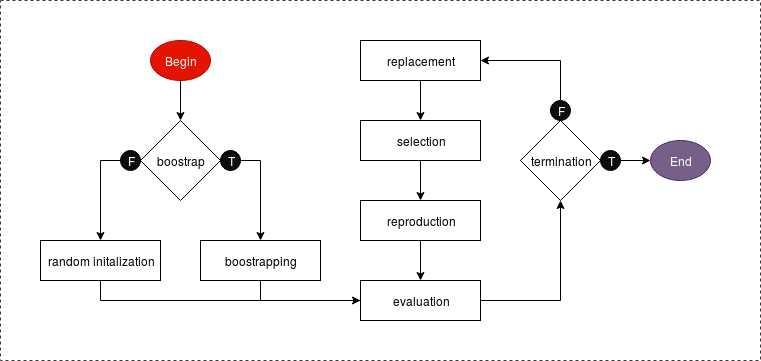
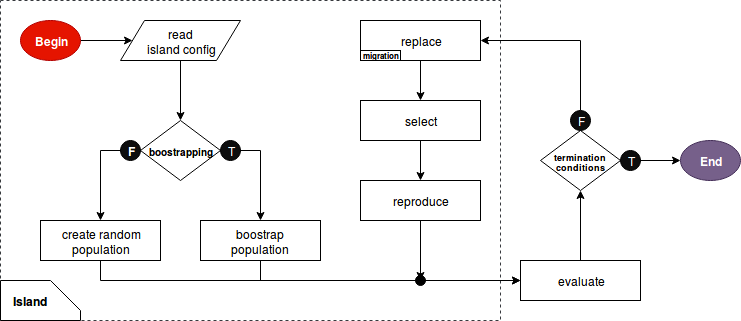
code refactoring + docs update

diff --git a/src/Island.py b/src/Island.py
@@ -33,28 +33,21 @@ class Island(object):
         if not migration_config and not reproduction_config and not replacement_config and not selection_config:
             print('[config error] migration, reproduction, replacement or selection config missing or incomplete.')
 
-        self.reproduction_policy    = ReproductionPolicy(self.population_size, reproduction_config, chromosome_length, self.genotype_letters)
         self.selection_policy       = SelectionPolicy(selection_config, reproduction_config)
-        self.replacement_policy     = ReplacementPolicy(replacement_config, migration_config, tmp_dir, name)
+        self.replacement_policy     = ReplacementPolicy(replacement_config, migration_config, tmp_dir,
+                                                        name, self.population_size)
+        self.reproduction_policy    = ReproductionPolicy(self.population_size, reproduction_config,
+                                                         chromosome_length, self.genotype_letters)
 
         # More variables
         self.generation     = 0
         self.individuals    = self.initiate_individuals()
         self.island_name    = name
         self.processes      = []
-        self.open_processes()
 
     def initiate_individuals(self):
         return [[0, [self.genotype_letters[randint(0, len(self.genotype_letters) - 1)] for _ in range(self.chromosome_length)], False]
                 for _ in range(self.population_size)]
-
-    def open_processes(self):
-        for index, individual in enumerate(self.individuals):
-            if individual[2]: # dont evaluate elites/previously evaluated
-                continue
-            genome = ''.join(str(gene) for gene in individual[1])
-            self.processes.append(subprocess.Popen(["python3", self.evaluation_function_path, genome, str(index)],
-                                                   stdout=subprocess.PIPE))
 
     def sort_individuals(self):
         tmp_individuals = self.individuals
@@ -70,10 +63,12 @@ class Island(object):
             tmp_individuals.remove(tmp_individuals[best_individual])
 
     def evolve(self):
-        new_generation = self.replacement_policy.replace(self.individuals)
-        for _ in range(len(new_generation), self.population_size):
-            parents = self.selection_policy.select_parents(self.individuals)
-            new_generation.append(self.reproduction_policy.reproduce(parents))
-        self.individuals = new_generation
+        # Replacement
+        from_old_generation, num_of_children = self.replacement_policy.replace(self.individuals)
+        # Selection
+        parents = self.selection_policy.select_parents(self.individuals)
+        # Reproduction
+        new_generation = [self.reproduction_policy.reproduce(parents) for _ in range(num_of_children)]
+        # New generation
+        self.individuals = new_generation + from_old_generation
         self.generation += 1
-#

diff --git a/src/Experiment.py b/src/Experiment.py
@@ -3,7 +3,7 @@ import sys
 import time
 import tempfile
 from src.Island import Island
-from src.utilities import decode_stdout, get_date_in_string, remove_tmp, kill_all_processes
+from src.utilities import decode_stdout, get_date_in_string, remove_tmp, kill_all_processes, open_processes
 
 
 class Experiment():
@@ -20,6 +20,8 @@ class Experiment():
 		# Islands settings
 		self.island_configs = []
 		self.islands        = self.initialize_islands(experiment_xml_config, evaluators_xml_config)
+		for island in self.islands:
+			open_processes(island)
 
 		# Logs
 		self.log = self.initialize_log()
@@ -62,24 +64,36 @@ class Experiment():
 				print(individual)
 
 	def run(self):
-			for id, island in enumerate(self.islands):
-				if len(island.processes) > 0: # Collect stdout from unfinished processes if they exists
-					for process in island.processes:
-						if process.poll():
-							index, fitness = decode_stdout(process.communicate()[0])
-							island.individuals[int(index)][0] = int(fitness)
-							island.individuals[int(index)][2] = True
-							island.processes.remove(process)
+			for island in self.islands:
+				if len(island.processes) > 0:
+					self.collect_fitness()
 				else:
-					island.sort_individuals()
-					island.replacement_policy.migration_policy.migrate_out(island.individuals[0])
-					self.update_log(island)
+					self.organize_island(island)
 					if self.termination_check(island):
-						for island in self.islands:
-							kill_all_processes(island.processes)
-							remove_tmp(island.replacement_policy.migration_policy.migration_file)
-						os.removedirs(self.tmp_dir)
-						sys.exit()
+						self.quit_experiment()
 					else:
-						island.evolve()
-						island.open_processes()
+						self.next_generation()
+
+	def organize_island(self, island):
+		island.sort_individuals()
+		self.update_log(island)
+
+	def next_generation(self, island):
+		island.replacement_policy.migration_policy.migrate_out(island.individuals[0])
+		island.evolve()
+		open_processes(island)
+
+	def collect_fitness(self, island):
+		for process in island.processes:
+			if process.poll():
+				index, fitness = decode_stdout(process.communicate()[0])
+				island.individuals[int(index)][0] = int(fitness)
+				island.individuals[int(index)][2] = True
+				island.processes.remove(process)
+
+	def quit_experiment(self):
+		for island in self.islands:
+			kill_all_processes(island.processes)
+			remove_tmp(island.replacement_policy.migration_policy.migration_file)
+		os.removedirs(self.tmp_dir)
+		sys.exit()

diff --git a/src/ReplacementPolicy.py b/src/ReplacementPolicy.py
@@ -2,8 +2,9 @@ from src.MigrationPolicy import MigrationPolicy
 
 
 class ReplacementPolicy(object):
-	def __init__(self, replacement_config, migration_config, tmp_dir, name):
+	def __init__(self, replacement_config, migration_config, tmp_dir, name, population_size):
 		self.policy = replacement_config['policy']
+		self.population_size = population_size
 		self.migration_policy = MigrationPolicy(tmp_dir, name, migration_config)
 		if self.policy == 'elitism':
 			self.num_of_elites = int(replacement_config['num_of_elites'])
@@ -14,6 +15,8 @@ class ReplacementPolicy(object):
 		if self.policy == 'elitism':
 			status, immigrant = self.migration_policy.migrate_in()
 			if status:
-				return [individuals[index] for index in range(self.num_of_elites - 1)] + [immigrant]
+				from_old_generation = [individuals[index] for index in range(self.num_of_elites - 1)] + [immigrant]
 			else:
-				return [individuals[index] for index in range(self.num_of_elites)]
+				from_old_generation = [individuals[index] for index in range(self.num_of_elites)]
+			num_of_children = self.population_size - len(from_old_generation)
+			return from_old_generation, num_of_children

diff --git a/src/utilities.py b/src/utilities.py
@@ -1,5 +1,6 @@
 from time import localtime
 import os
+import subprocess
 
 
 def accumulate_vector(vector):
@@ -33,6 +34,15 @@ def decode_stdout(stdout):
 def remove_tmp(path):
     if os.path.exists(path):
         os.remove(path)
+
+
+def open_processes(island):
+    for index, individual in enumerate(island.individuals):
+        if individual[2]:  # dont evaluate elites/previously evaluated
+            continue
+        genome = ''.join(str(gene) for gene in individual[1])
+        island.processes.append(subprocess.Popen(["python3", island.evaluation_function_path, genome, str(index)],
+                                                 stdout=subprocess.PIPE))
 
 
 def kill_all_processes(processes):

diff --git a/README.md b/README.md
@@ -149,6 +149,9 @@ The **eval/config.xml** file contains definitions of all the evaluation function
 ## 6 Implementation
 ![alt text](docs/gpec_general_flowchart.png)
 
+### 6.0 Parallel processing
+![alt text](docs/parallel_processing.png)
+
 ### 6.1 The island model
 Is an example of a distributed population model. 
 - Coarse grain 
